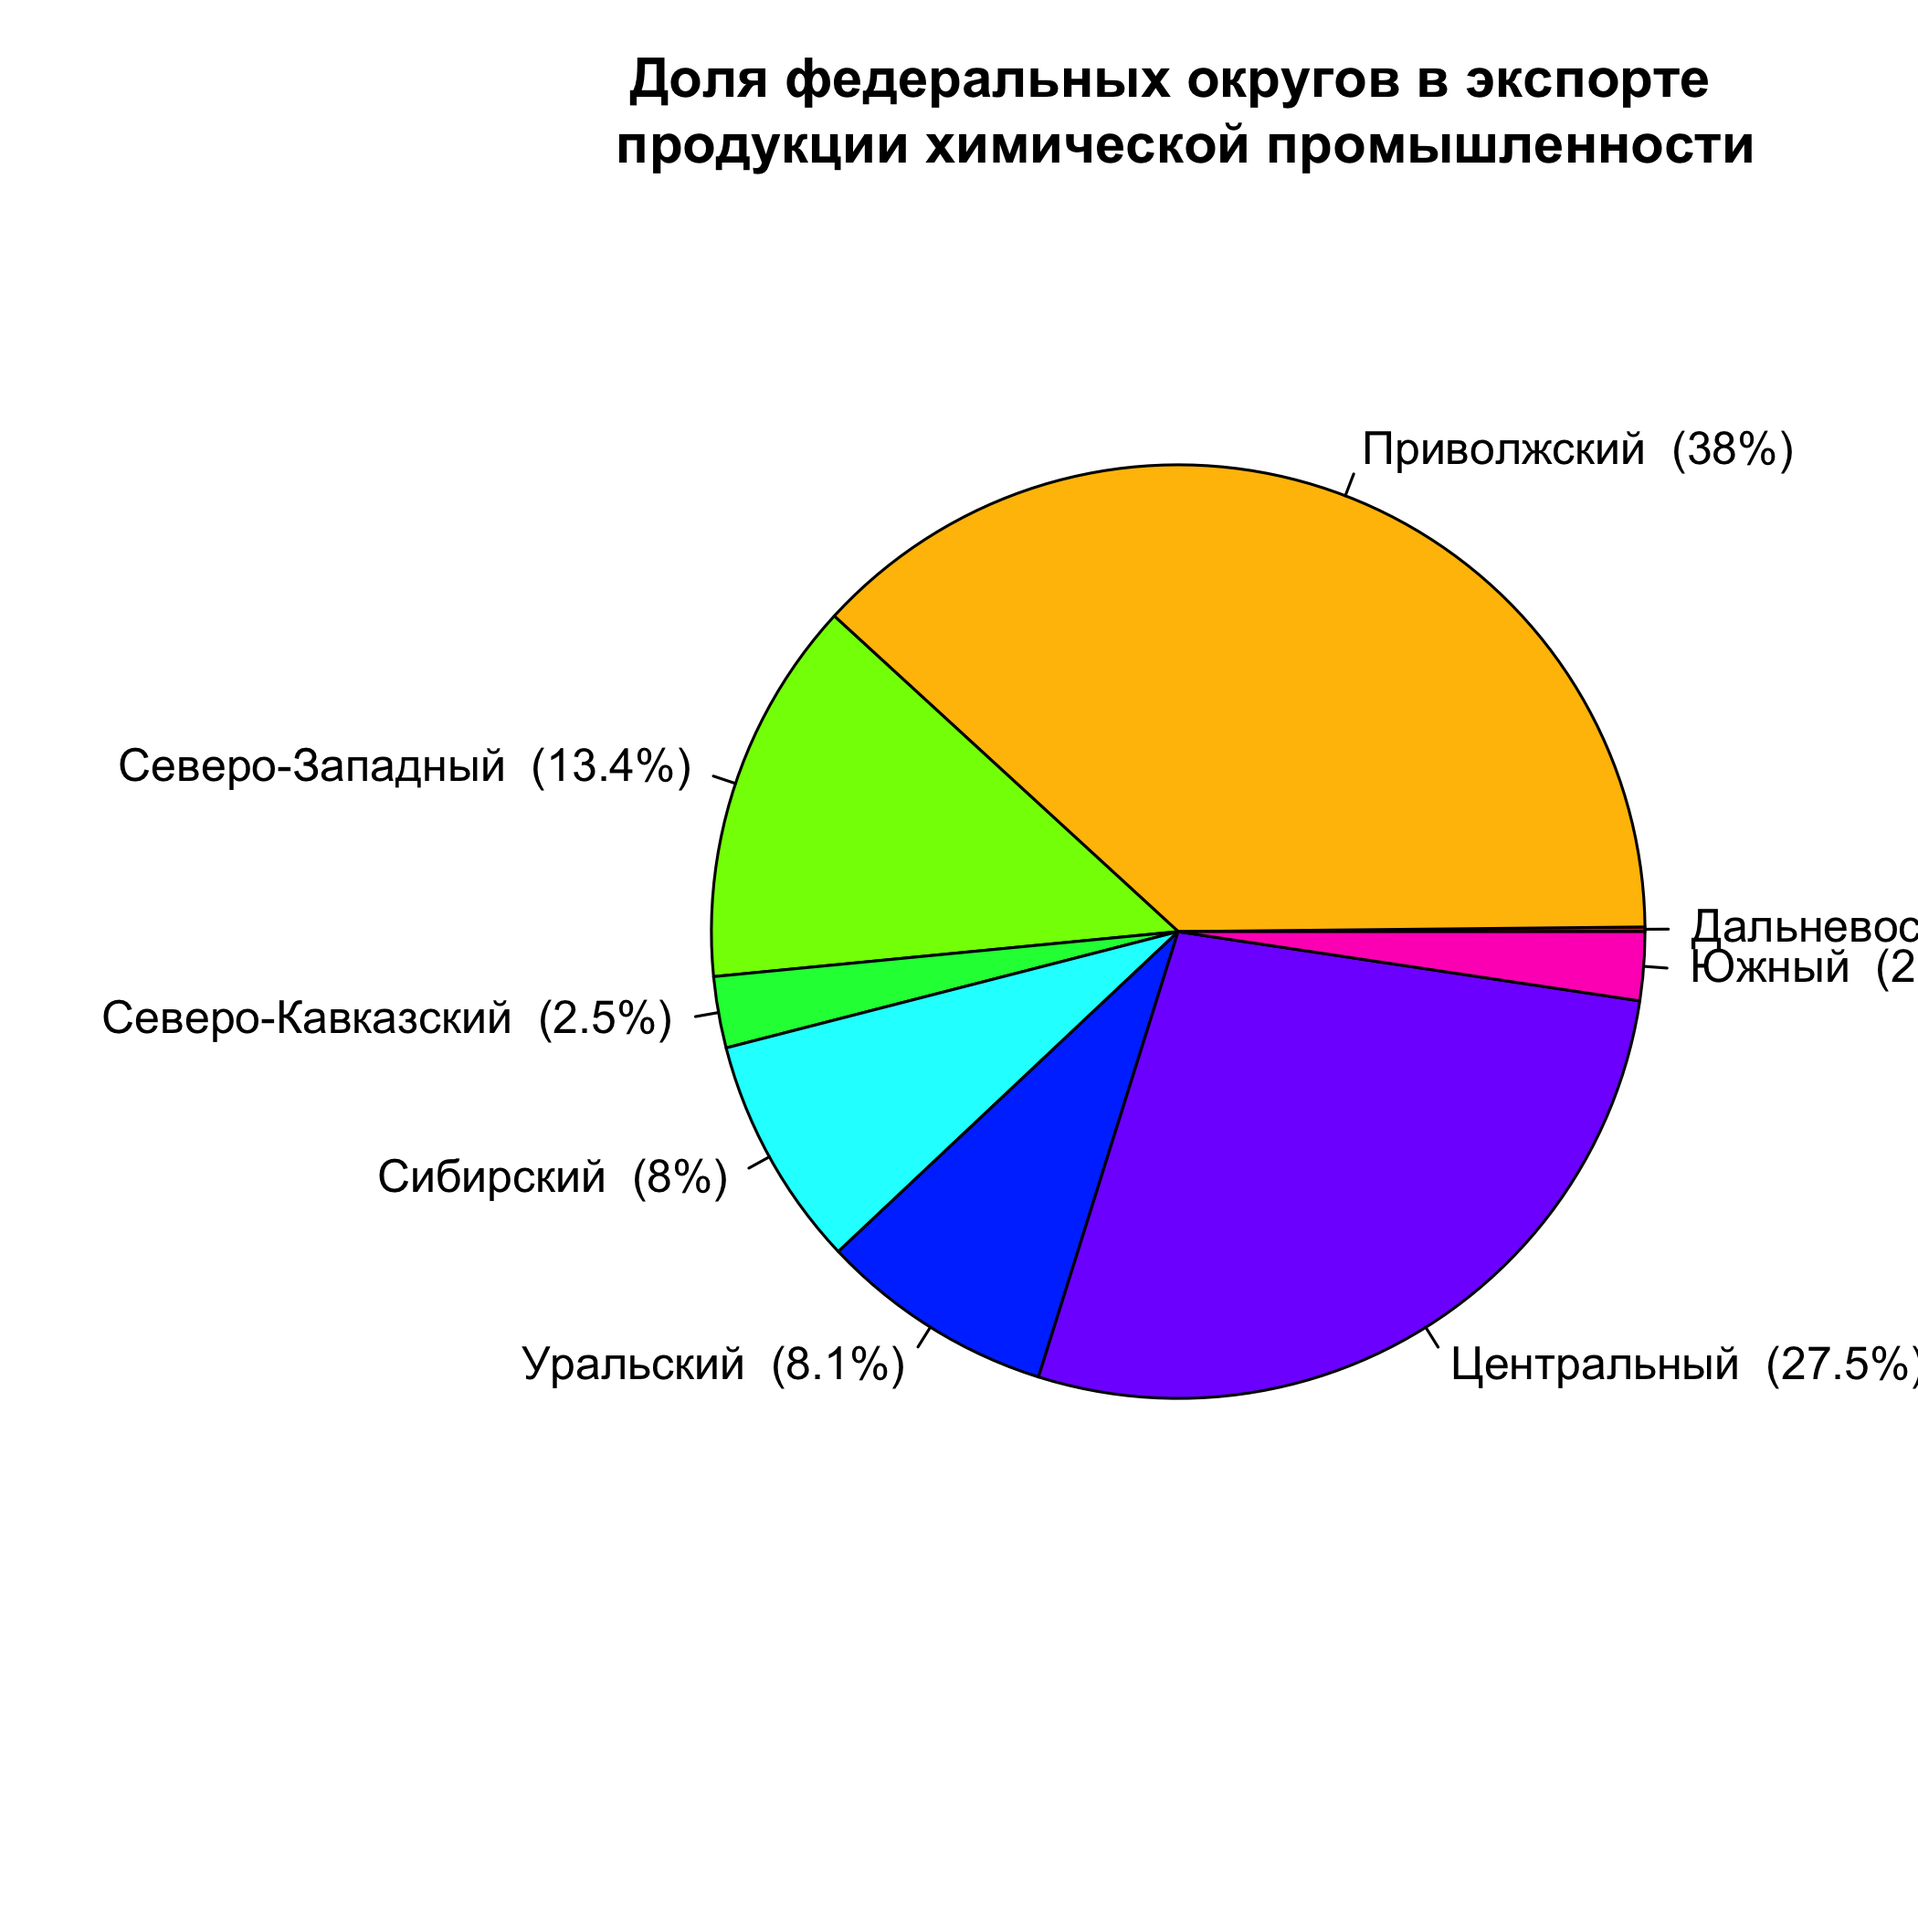
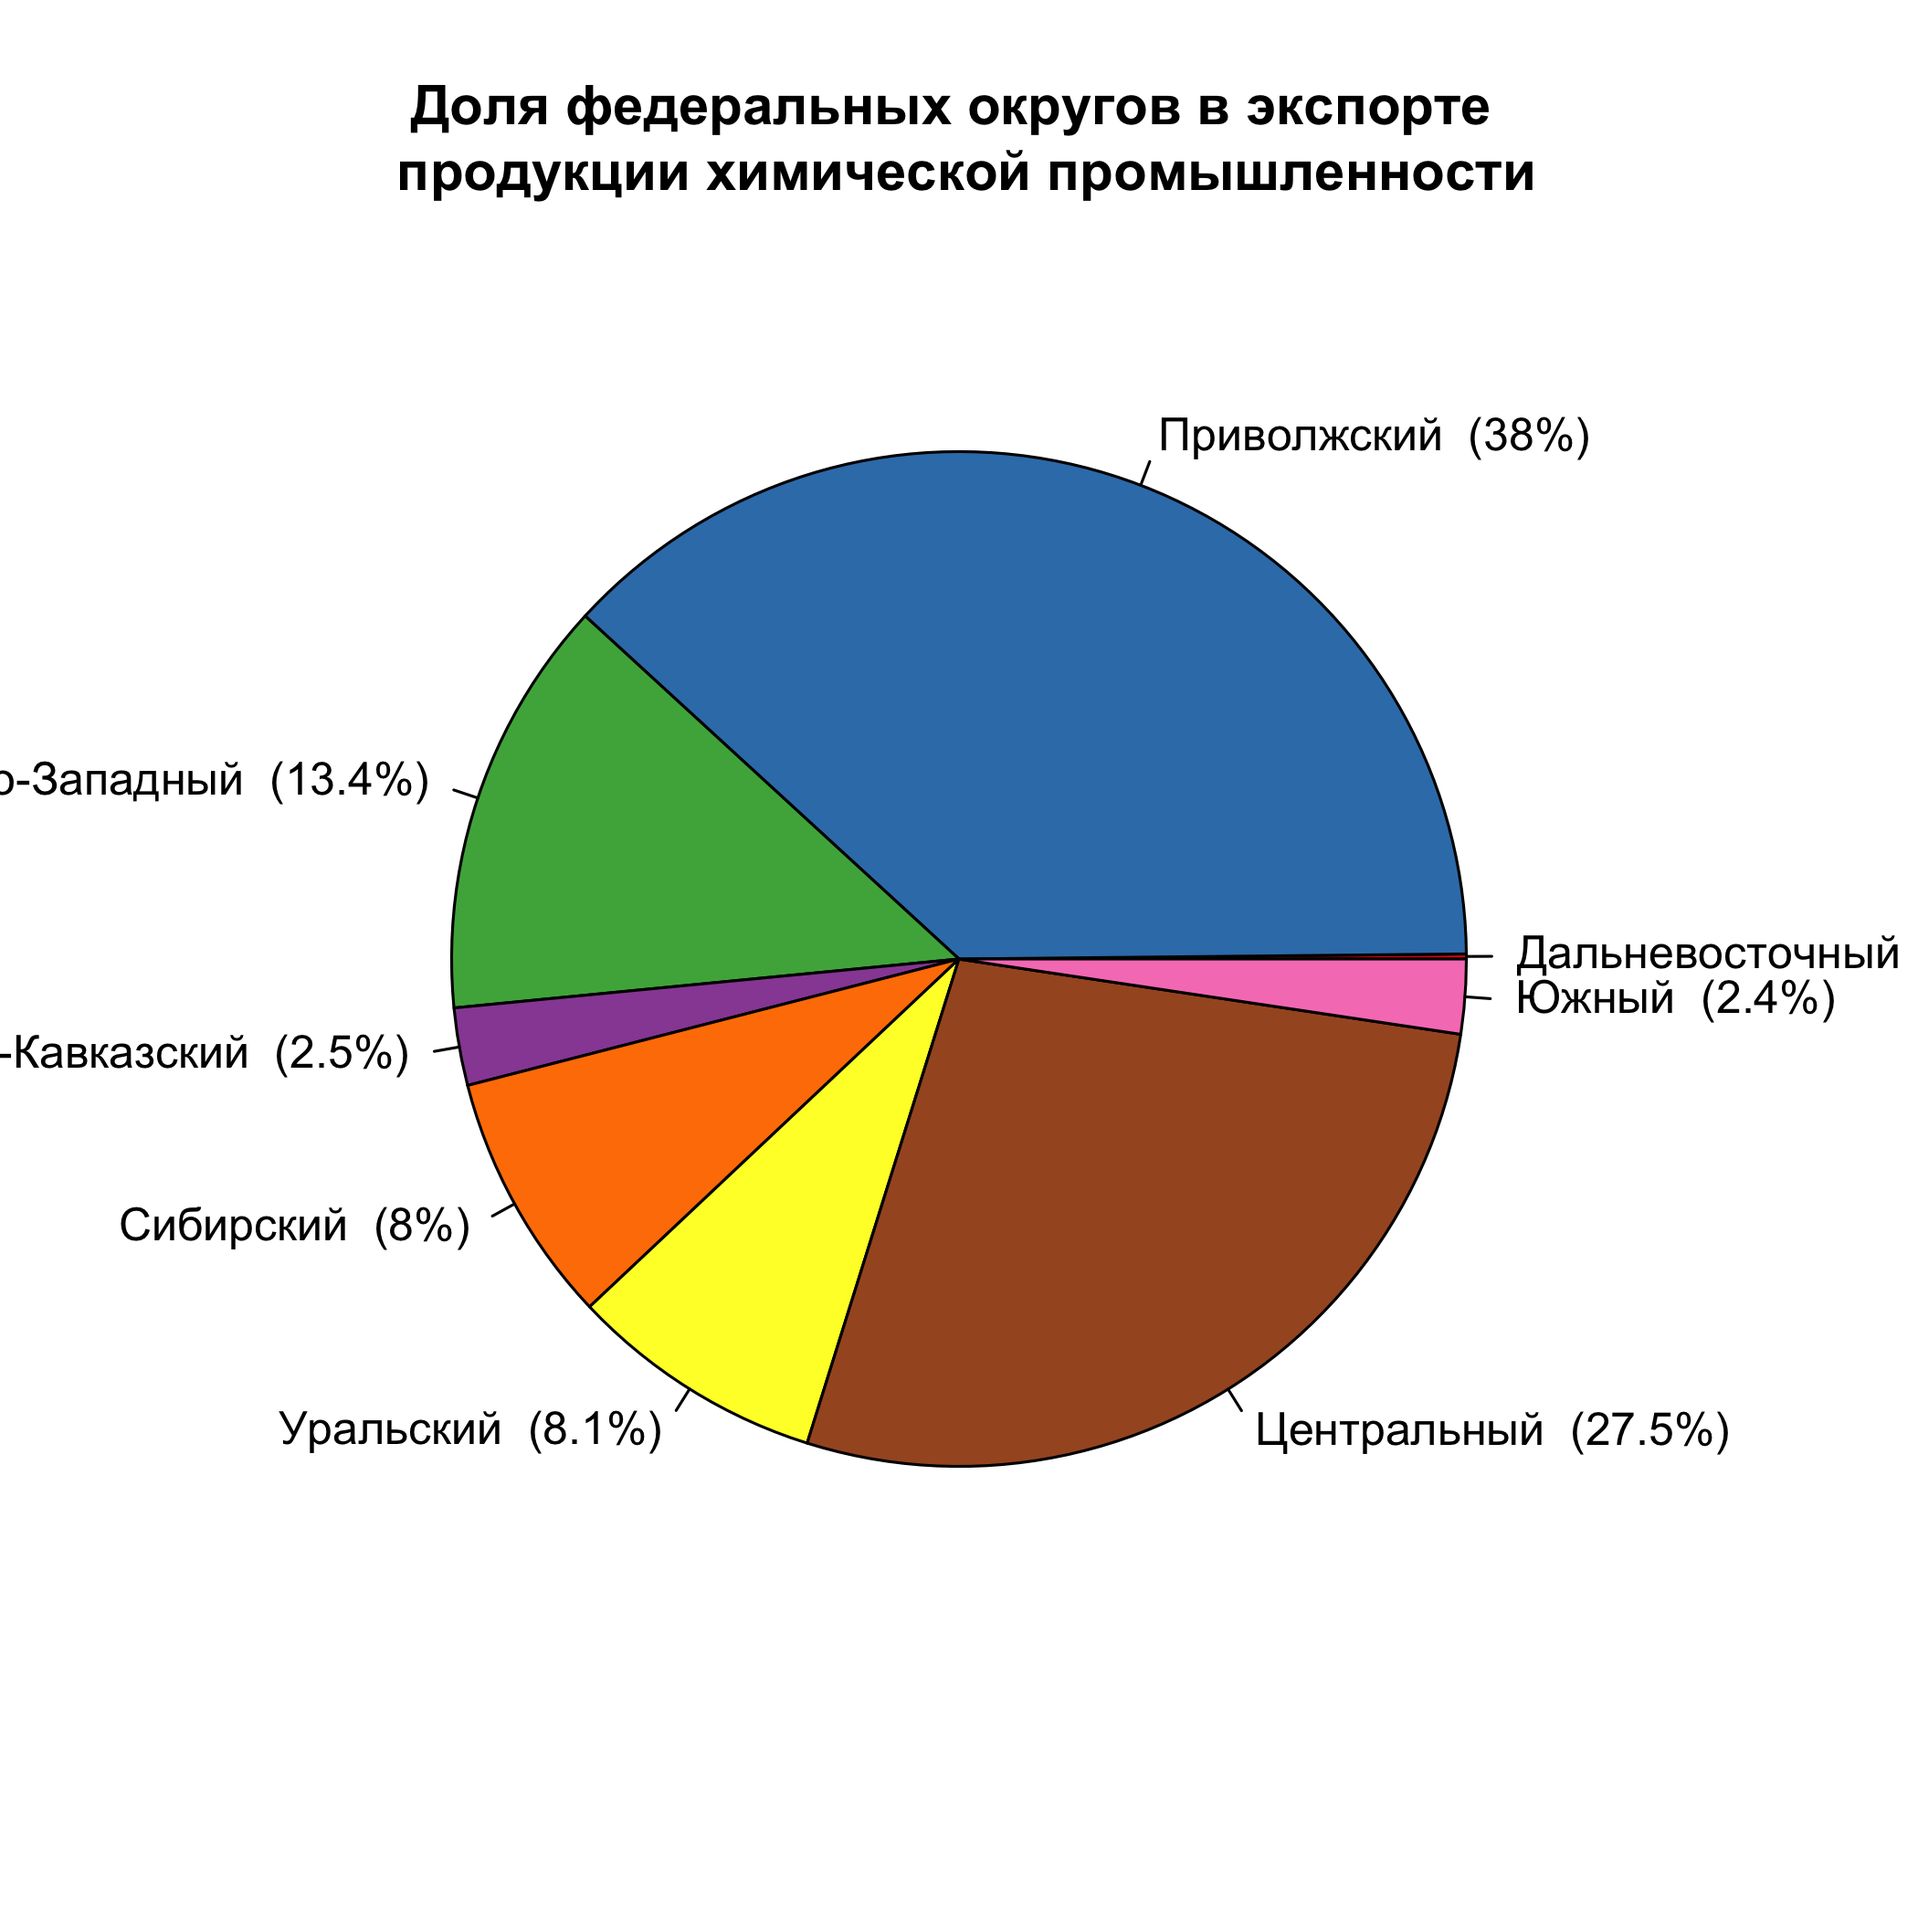
update Brewer

diff --git a/05_Graphics.html b/05_Graphics.html
@@ -615,18 +615,16 @@ barplot(
 
 ---
 
-# Цвет
+# Цветовые палитры
 
-Наконец, вещь, которой совершенно необходимо уметь пользоваться при работе с цветом в __R__ --- это цветовые палитры. Палитры чрезвычайно удобны, когда необходимо сгенерировать множество цветов, зная лишь основные оттенки. Для этого нужно создать палитру, используя функцию `colorRampPalette()`:
 
 ```r
-# задаем 2 опорных цвета: черный  белый
-palet=colorRampPalette(c("black","white")) 
+*palet = colorRampPalette(c("steelblue","white","purple4"))
+```
 
-# и автоматически генерируем 8 цветов между ними:
-colors=palet(8)
+.pull-left[
 
-# используем их для отображения:
+```r
 barplot(okr$ХимЭкспорт, 
         names.arg = names, 
         main = "Экспорт продукции химической промышленности", 
@@ -634,29 +632,21 @@ barplot(okr$ХимЭкспорт,
         horiz = TRUE, 
         las = 1, 
         xlim = c(0, 12000), 
-        col= colors)
+*       col = palet(nrow(okr)))
 ```
+`colorRampPalette()` является __функциональной фабрикой__, т.е. функцией, создающей другую функцию. 
+]
 
-![](05_Graphics_files/figure-html/unnamed-chunk-16-1.png)&lt;!-- --&gt;
+.pull-right[
+&lt;img src="05_Graphics_files/figure-html/pal-out-1.png" width="90%" /&gt;
+]
 
-```r
+---
 
-# вы можете включить в палитру произвольное количество цветов:
-palet=colorRampPalette(c("steelblue","white","purple4")) 
-colors=palet(8)
-barplot(okr$ХимЭкспорт, 
-        names.arg = names, 
-        main = "Экспорт продукции химической промышленности", 
-        xlab = "млн долл. США", 
-        horiz=TRUE, 
-        las = 1, 
-        xlim = c(0, 12000), 
-        col= colors)
-```
+# Цветовые палитры
 
-![](05_Graphics_files/figure-html/unnamed-chunk-16-2.png)&lt;!-- --&gt;
-
-В __R__ cуществует множество стандартных палитр, их список можно найти в справке и документации. Наиболее полезные из них:
+.pull-left[
+В __R__ cуществует множество стандартных цветовых палитр:
 
 * `colors()`
 * `gray()`
@@ -665,52 +655,113 @@ barplot(okr$ХимЭкспорт,
 * `topo.colors()`
 * `terrain.colors()`
 
-Напрмер, вы можете изменить цвета диаграммы, взяв их из одной из палитр или выбрав случайным образом из полной палитры цветов, используя функцию `sample()`:
 
 ```r
-pie(okr$ХимЭкспорт, names2, main = "Доля федеральных округов в экспорте \n продукции химической промышленности", col=rainbow(length(names2)))
+pie(
+  okr$ХимЭкспорт, names2, 
+  main = "Доля федеральных округов в экспорте \n продукции химической промышленности", 
+* col = rainbow(nrow(okr))
+)
+```
+]
+
+.pull-right[
+![](05_Graphics_files/figure-html/piepal-out-1.png)&lt;!-- --&gt;
+]
+
+---
+
+# Цветовые палитры
+
+.pull-left[
+В __R__ cуществует множество стандартных цветовых палитр:
+
+* `colors()`
+* `gray()`
+* `rainbow()`
+* `heat.colors()`
+* `topo.colors()`
+* `terrain.colors()`
+
+
+```r
+pie(
+  okr$ХимЭкспорт, names2, 
+  main = "Доля федеральных округов в экспорте \n продукции химической промышленности", 
+*col = sample(colors(), nrow(okr))
+)
+```
+]
+
+.pull-right[
+![](05_Graphics_files/figure-html/piepal2-out-1.png)&lt;!-- --&gt;
+]
+
+---
+
+# Color Brewer
+
+Широко используемый ресурс для построения цветовых палитр
+
+&lt;iframe src="https://colorbrewer2.org/" width="100%" height="400px"&gt;&lt;/iframe&gt;
+https://colorbrewer2.org/
+
+---
+
+# Color Brewer
+
+.pull-left[
+Палитры ColorBrewer доступны через пакет `RColorBrewer`
+
+
+```r
+library(RColorBrewer)
+par(mar = c(0, 2.5, 0, 2.5))
+*display.brewer.all()
 ```
 
-![](05_Graphics_files/figure-html/unnamed-chunk-17-1.png)&lt;!-- --&gt;
+К каждой палитре можно обратиться по имени:
 
 ```r
-pie(okr$ХимЭкспорт, names2, main = "Доля федеральных округов в экспорте \n продукции химической промышленности", col=sample(colors(),5))
+colors = brewer.pal(nrow(okr), 
+                    "Set1")
+```
+]
+
+.pull-right[
+![](05_Graphics_files/figure-html/brew-out-1.png)&lt;!-- --&gt;
+]
+
+---
+
+
+# Color Brewer
+
+
+
+.pull-left[
+.code-small[
+
+```r
+pie(okr$ХимЭкспорт, names2, main = "Доля федеральных округов в экспорте \n продукции химической промышленности", 
+*   col = brewer.pal(nrow(okr), "Set1"))
 ```
 
-![](05_Graphics_files/figure-html/unnamed-chunk-17-2.png)&lt;!-- --&gt;
+![](05_Graphics_files/figure-html/unnamed-chunk-20-1.png)&lt;!-- --&gt;
+]
+]
 
-Более богатый набор палитр можно найти в библиотеке `RColorBrewer`, которая представляет собой интерпретацию палитр, доступных на сайте [colorbrewer2.org](http://colorbrewer2.org/)
-
-
-```r
-library(RColorBrewer) # Откроем библиотеку RColorBrewer:
-display.brewer.all() # Посмотрим, какие в ней имеются палитры
-```
-
-![](05_Graphics_files/figure-html/unnamed-chunk-19-1.png)&lt;!-- --&gt;
-
-
-К каждой из этих палитр можно обратиться по названию с помощью функции `brewer.pal()`. Поскольку нам необходимы цвета для категориальных данных, следует использовать палитры из средней части (_Set3 - Accent_)
-
+.pull-right[
+.code-small[
 
 ```r
-# выберем цвета из палитры Set2 по количеству секторов в круге:
-colors = brewer.pal(length(names2),"Set1")
-
-# И используем их при визуализации
-par(mar = c(5, 5, 5, 5)) # установим поля
-pie(okr$ХимЭкспорт, names2, main = "Доля федеральных округов в экспорте \n продукции химической промышленности", col=colors)
+pie(okr$ХимЭкспорт, names2, main = "Доля федеральных округов в экспорте \n продукции химической промышленности", 
+*   col = brewer.pal(nrow(okr), "Set2"))
 ```
 
 ![](05_Graphics_files/figure-html/unnamed-chunk-21-1.png)&lt;!-- --&gt;
-
-```r
-
-# Попробуем палитру Accent:
-pie(okr$ХимЭкспорт, names2, main = "Доля федеральных округов в экспорте \n продукции химической промышленности", col=brewer.pal(length(names2),"Accent"))
-```
-
-![](05_Graphics_files/figure-html/unnamed-chunk-21-2.png)&lt;!-- --&gt;
+]
+]
 
 ---
 
